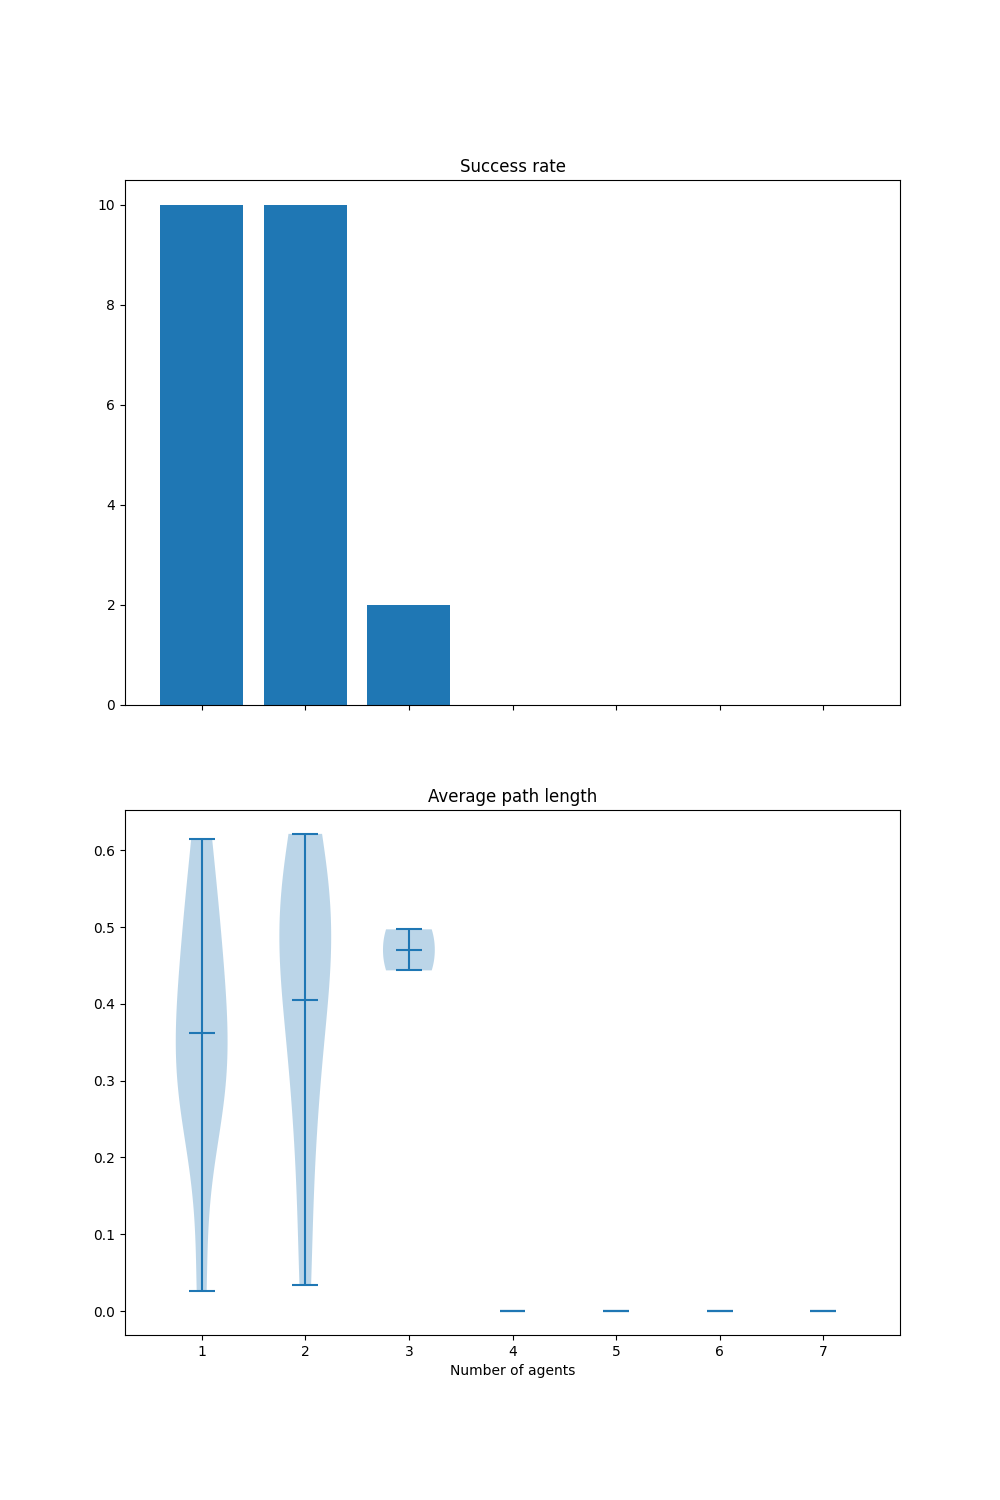
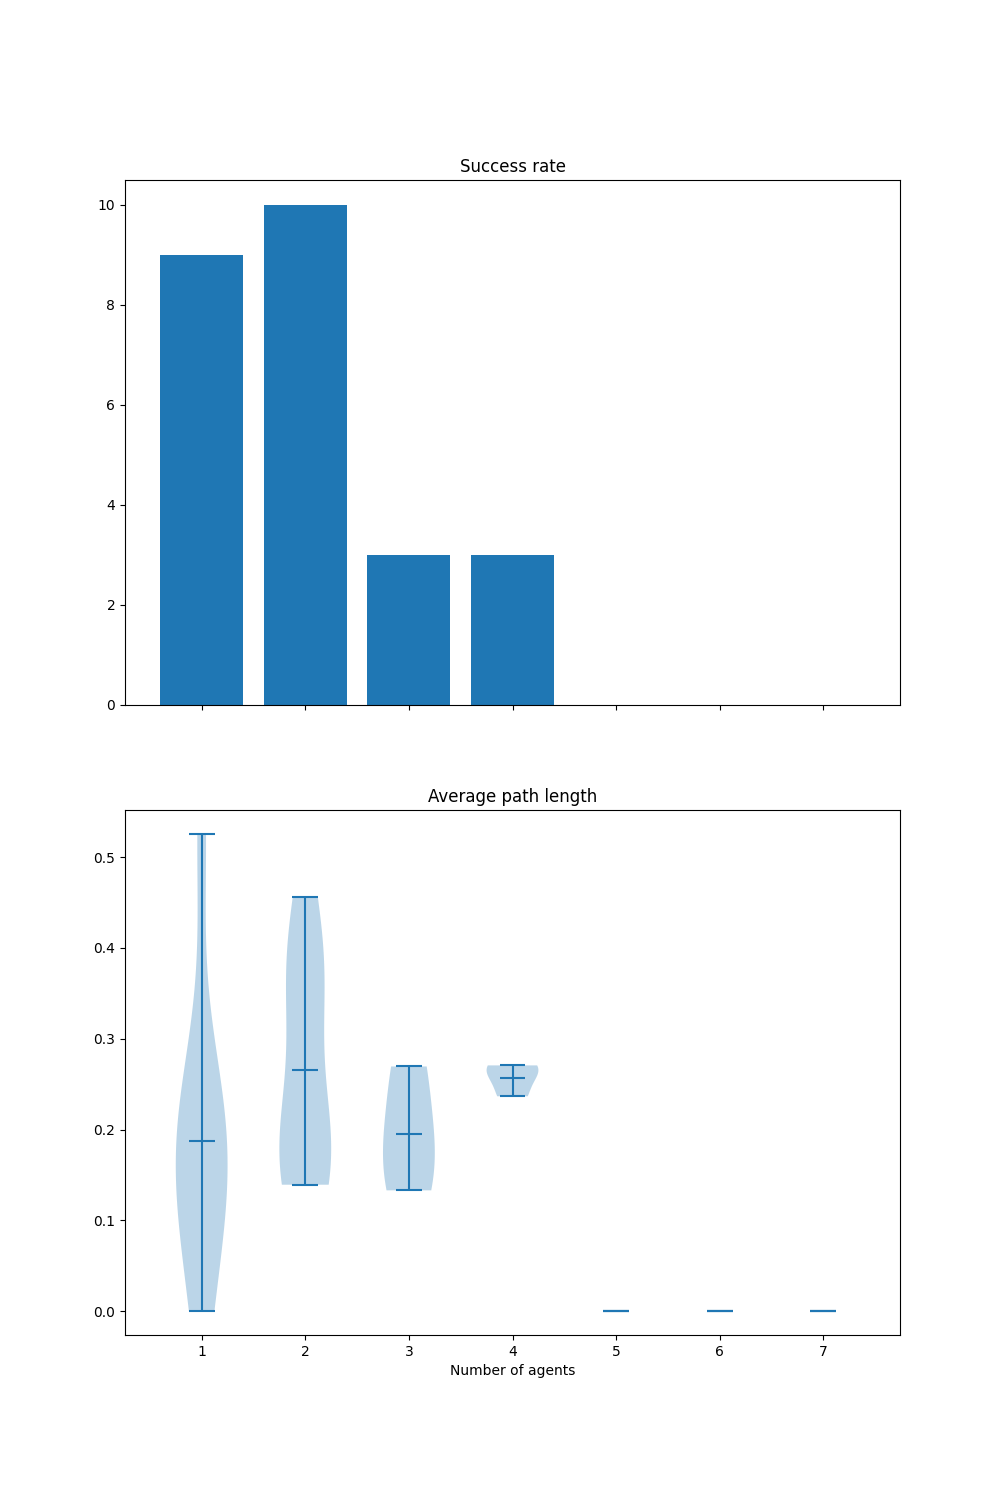
slightly random poses do help ...

diff --git a/planner/bvc/plan_bvc.py b/planner/bvc/plan_bvc.py
@@ -140,18 +140,22 @@ def plan(map_img: MAP_IMG, starts, goals, radius: float):
 
     # Read the paths.
     paths_s = []
-    for file in os.listdir(scenario_folder):
-        if file.startswith("vis") and file.endswith(".json"):
-            paths = [list() for _ in range(n_agents)]
-            with open(os.path.join(scenario_folder, file), 'r') as f:
-                content = json.load(f)
-                for frame in content[STR_FRAMES]:
-                    for position in frame[STR_ROBOT_POSITIONS]:
-                        paths[position[STR_ROBOT_ID]].append(
-                            position[STR_POSITION])
-            os.remove(os.path.join(scenario_folder, file))
-            paths_np = np.array(paths)
-            paths_s.append(paths_np)
+    try:
+        for file in os.listdir(scenario_folder):
+            if file.startswith("vis") and file.endswith(".json"):
+                paths = [list() for _ in range(n_agents)]
+                with open(os.path.join(scenario_folder, file), 'r') as f:
+                    content = json.load(f)
+                    for frame in content[STR_FRAMES]:
+                        for position in frame[STR_ROBOT_POSITIONS]:
+                            paths[position[STR_ROBOT_ID]].append(
+                                position[STR_POSITION])
+                os.remove(os.path.join(scenario_folder, file))
+                paths_np = np.array(paths)
+                paths_s.append(paths_np)
+    except KeyError:
+        print(f"KeyError: {file}")
+        return INVALID
 
     # Cleanup.
     if os.path.exists(scenario_folder):

diff --git a/planner/bvc/plan_bvc_demo.py b/planner/bvc/plan_bvc_demo.py
@@ -25,11 +25,14 @@ if __name__ == "__main__":
                      for i in range(map_img_np.shape[0])])
 
     possible_starts_and_goals = [
-        [.8, .7], [.8, .3],
-        [.7, .8], [.3, .8],
-        [.2, .7], [.2, .3],
-        [.7, .2], [.3, .2],
+        [.7, .6], [.7, .4],
+        [.6, .7], [.4, .7],
+        [.3, .6], [.3, .4],
+        [.6, .3], [.4, .3],
     ]
+    for i_p in range(len(possible_starts_and_goals)):
+        possible_starts_and_goals[i_p][0] += random.gauss(0, .1)
+        possible_starts_and_goals[i_p][1] += random.gauss(0, .1)
     n_agents_s = range(1, len(possible_starts_and_goals))
     n_trials = 10
 
